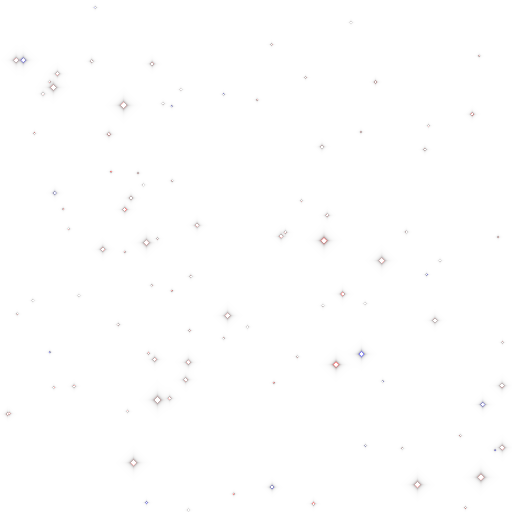
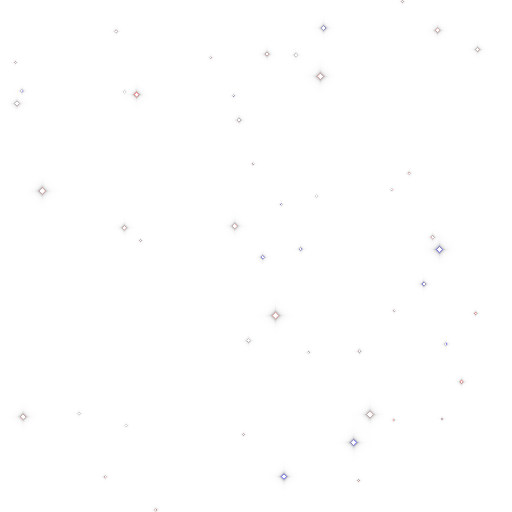
img loading, added nebs/stars, fixed bg parallax

diff --git a/scripts/game.js b/scripts/game.js
@@ -215,11 +215,22 @@ BSWG.game = new function(){
 
 BSWG.starfield = function(){
 
-    var imageCount = 32;
+    var imageCount = 64;
     var imageSize = 384;
     var images = [];
+    var dustCount = 32;
+    var dustImages = [];
     var starSizeO = [ 1, 8 ];
     var layers = 2;
+
+    var starImg = [];
+    for (var i=0; i<15; i++) {
+        starImg.push(BSWG.render.images['stars_' + i]);
+    }
+    var nebulaImg = [];
+    for (var i=0; i<15; i++) {
+        nebulaImg.push(BSWG.render.images['nebula_' + i]);
+    }
 
     Math.seedrandom(Date.timeStamp());
 
@@ -228,68 +239,36 @@ BSWG.starfield = function(){
 
             ctx.clearRect(0, 0, w, h);
 
-            for (var k=0; k<128; k++)
-            {
-                var rr = Math.random();
-
-                if (rr < 0.7)
-                    ctx.fillStyle = '#fff';
-                else if (rr < 0.85)
-                    ctx.fillStyle = '#f88';
-                else
-                    ctx.fillStyle = '#88f';
-
-                var x = Math.random() * (w - starSizeO[1] * 2) + starSizeO[1];
-                var y = Math.random() * (w - starSizeO[1] * 2) + starSizeO[1];
-                var r = Math.random() * (starSizeO[1] - starSizeO[0]) + starSizeO[0];
-                var l = Math.random();
-
-                ctx.beginPath();
-                ctx.arc(x, y, r, 0, 2*Math.PI);
-                ctx.globalAlpha = l * 0.15;
-                ctx.fill();
-
-                ctx.beginPath();
-                ctx.arc(x, y, r*0.2, 0, 2*Math.PI);
-                ctx.globalAlpha = l;
-                ctx.fill();
-            }
-
-            ctx.globalAlpha = 1.0;
+            var img = starImg[Math.floor(Math.random() * starImg.length)];
+            ctx.globalAlpha = 0.65;
+            ctx.drawImage(img, 0, 0, img.width, img.height, 0, 0, w, h);
 
             if (!(i%4))
             {
-                var r = Math.random();
+                var img = nebulaImg[Math.floor(Math.random() * nebulaImg.length)];
+                var sz = (Math.random()*0.5+0.5)*Math.min(w,h);
+                ctx.save();
+                ctx.translate(sz*0.5, sz*0.5);
+                ctx.rotate(Math.PI*2.0);
+                ctx.translate(-sz*0.5, -sz*0.5);
+                ctx.globalAlpha = 0.45;
+                ctx.drawImage(img, 0, 0, img.width, img.height, 0, 0, sz, sz);
+                ctx.restore();
+            }
 
-                if (r < 1/3) ctx.fillStyle = '#844';
-                else if (r < 2/3) ctx.fillStyle = '#484';
-                else ctx.fillStyle = '#448';
+        }));
+    }
 
-                var L = [ [w*0.5, w*0.5, w*0.15] ];
-                ctx.beginPath();
-                ctx.arc(w*0.5, h*0.5, w*0.15, 0, 2*Math.PI);
-                ctx.globalAlpha = 0.2;
-                ctx.fill();
+    for (var i=0; i<dustCount; i++) {
+        dustImages.push(BSWG.render.proceduralImage(imageSize, imageSize, function(ctx, w, h){
 
-                for (var k=0; k<64; k++)
-                {
-                    var j = Math.floor(Math.random()*L.length);
-                    var rr = Math.random() * L[j][2];
-                    var ra = Math.random() * Math.PI * 2.0;
-                    var x = L[j][0] + Math.cos(ra) * rr;
-                    var y = L[j][1] + Math.sin(ra) * rr;
-                    var r = Math.random() * L[j][2] * 0.25 + L[j][2] * 0.75;
+            ctx.clearRect(0, 0, w, h);
 
-                    if (x-r < 0 || y-r < 0 || x+r >= w || y+r >= h)
-                        continue;
+            ctx.globalAlpha = 0.5;
+            ctx.fillStyle = '#bbb';
 
-                    L.push([x, y, r]);
-
-                    ctx.beginPath();
-                    ctx.arc(x, y, r, 0, 2*Math.PI);
-                    ctx.globalAlpha = 0.1;
-                    ctx.fill();
-                }
+            for (var k=0; k<125; k++) {
+                ctx.fillRect(Math.random()*w, Math.random()*h, 1, 1);
             }
 
         }));
@@ -297,45 +276,41 @@ BSWG.starfield = function(){
 
     this.render = function(ctx, cam, viewport) {
 
-        var vpsz = Math.max(viewport.w, viewport.h);
+        var oz = cam.z;
 
-        for (var l=layers; l>=1; l--) {
+        for (var l=3; l>=1; l--) {
 
-            var sz = imageSize / l;
-            var camz = 0.005 / l;
-            var offx = (-cam.x * vpsz * camz);
-            var offy = (-cam.y * vpsz * camz);
-            var ix = Math.floor(offx / sz);
-            var iy = Math.floor(offy / sz);
-            offx -= ix * sz;
-            offy -= iy * sz;
-            var cx = ((offx-imageSize) - viewport.w * 0.5) / (camz * vpsz) + cam.x;
-            var cy = ((offy-imageSize) - viewport.h * 0.5) / (camz * vpsz) + cam.y;
+            var t = (l-1)/2;
+            cam.z = (oz*(1.0-t) + t*0.1) / Math.pow(l, 4.0);
+            ctx.globalAlpha = 1.0/Math.pow(l, 1.25);
 
-            cx = Math.floor(cx / (imageSize / (vpsz * camz)));
-            cy = Math.floor(cy / (imageSize / (vpsz * camz)));
+            var tsize = [25, 80, 120][l-1];
 
-            if (l === 2) {
-                offx = offy = cx = cy = 0; // 2nd layer fixed in position as temp-fix to bug
-            }
+            var p1 = cam.toWorld(viewport, new b2Vec2(0, 0));
+            var p2 = cam.toWorld(viewport, new b2Vec2(viewport.w, viewport.h));
+            p1.x = (Math.floor(p1.x / tsize)-1) * tsize;
+            p1.y = (Math.floor(p1.y / tsize)-1) * tsize;
+            p2.x = (Math.floor(p2.x / tsize)+1) * tsize;
+            p2.y = (Math.floor(p2.y / tsize)+1) * tsize;
 
-            ctx.globalAlpha = 1/(l*l);
+            var img = l === 1 ? dustImages : images;
 
-            var _cx=cx;
-            for (var x=offx-sz; x<viewport.w; x+=sz) {
-
-                var _cy=cy;
-                for (var y=offy-sz; y<viewport.h; y+=sz) {
-
-                    var k = Math.floor(Math.random2d(_cx+1000*l, _cy+555*l) * 100000);
-                    ctx.drawImage(images[k % images.length], x, y, sz, sz);
-                    _cy += 1;
+            var p = new b2Vec2(p1.x, p1.y);
+            for (p.x = p1.x; p.x <= p2.x; p.x += tsize) {
+                for (p.y = p1.y; p.y <= p2.y; p.y += tsize) {
+                    var x = p.x / tsize, y = p.y / tsize;
+                    var ps = cam.toScreenList(viewport, [p, new b2Vec2(p.x+tsize, p.y+tsize)]);
+                    var w = ps[1].x - ps[0].x,
+                        h = ps[1].y - ps[0].y;
+                    var k = Math.floor(Math.random2d(x*13.5+100*l, y*7.431+55*l) * 100000);
+                    ctx.drawImage(img[k % img.length], ps[0].x, ps[0].y, w, h);
                 }
-                _cx += 1;
             }
+
+            ctx.globalAlpha = 1.0;
         }
 
-        ctx.globalAlpha = 1.0;
+        cam.z = oz;
 
     };
 

diff --git a/scripts/main.js b/scripts/main.js
@@ -11,6 +11,38 @@ var BSWG = new function(){
         'ui.js',
         'blaster.js',
     ];
+    var images = {
+        'nebula_0': 'nebula-512-0.png',
+        'nebula_1': 'nebula-512-1.png',
+        'nebula_2': 'nebula-512-2.png',
+        'nebula_3': 'nebula-512-3.png',
+        'nebula_4': 'nebula-512-4.png',
+        'nebula_5': 'nebula-512-5.png',
+        'nebula_6': 'nebula-512-6.png',
+        'nebula_7': 'nebula-512-7.png',
+        'nebula_8': 'nebula-512-8.png',
+        'nebula_9': 'nebula-512-9.png',
+        'nebula_10': 'nebula-512-10.png',
+        'nebula_11': 'nebula-512-11.png',
+        'nebula_12': 'nebula-512-12.png',
+        'nebula_13': 'nebula-512-13.png',
+        'nebula_14': 'nebula-512-14.png',
+        'stars_0': 'stars-512-0.png',
+        'stars_1': 'stars-512-1.png',
+        'stars_2': 'stars-512-2.png',
+        'stars_3': 'stars-512-3.png',
+        'stars_4': 'stars-512-4.png',
+        'stars_5': 'stars-512-5.png',
+        'stars_6': 'stars-512-6.png',
+        'stars_7': 'stars-512-7.png',
+        'stars_8': 'stars-512-8.png',
+        'stars_9': 'stars-512-9.png',
+        'stars_10': 'stars-512-10.png',
+        'stars_11': 'stars-512-11.png',
+        'stars_12': 'stars-512-12.png',
+        'stars_13': 'stars-512-13.png',
+        'stars_14': 'stars-512-14.png'
+    };
 
     this.init = function ()
     {
@@ -27,7 +59,7 @@ var BSWG = new function(){
                 BSWG.input.init();
                 BSWG.game.createNew();
                 BSWG.game.start();
-            });
+            }, images);
         };
 
         for (var i=0; i<scripts.length; i++)

diff --git a/scripts/render.js b/scripts/render.js
@@ -78,10 +78,11 @@ BSWG.render = new function(){
     this.lastFrameTime = Date.timeStamp();
     this.dt = 1.0/60.0;
     this.time = 0.0;
+    this.images = {};
 
     var maxRes = { w: 1920, h: 1080 };
 
-    this.init = function(complete)
+    this.init = function(complete, images)
     {
         document.body.innerHTML = '';
 
@@ -92,7 +93,27 @@ BSWG.render = new function(){
 
         document.body.appendChild(this.canvas);
 
-        if (complete)
+        this.images = images = images || {};
+
+        var toLoad = 0;
+        for (var key in images) {
+            toLoad += 1;
+        }
+        var totalImages = toLoad;
+        for (var key in images) {
+            var img = new Image();
+            img.src = '/images/' + images[key];
+            img.onload = function() {
+                toLoad -= 1;
+                if (toLoad === 0) {
+                    if (complete)
+                        complete();
+                }
+            };
+            images[key] = img;
+        }
+
+        if (!totalImages && complete)
             complete();
     };
 

diff --git a/generation/batch-background.js b/generation/batch-background.js
@@ -18,7 +18,7 @@ for (var i=0; i<(countNeb * nebTypes.length); i++) {
 
 for (var i=0; i<countStars; i++) {
     waiting += 1;
-    var ge = spawn('node', ['gen-starfield.js', ''+100, ''+sz, '../images/stars-' + sz + '-' + i]);
+    var ge = spawn('node', ['gen-starfield.js', ''+50, ''+sz, '../images/stars-' + sz + '-' + i]);
     ge.on('close', function(code) {
         console.log((--waiting) + ' left');
     });
